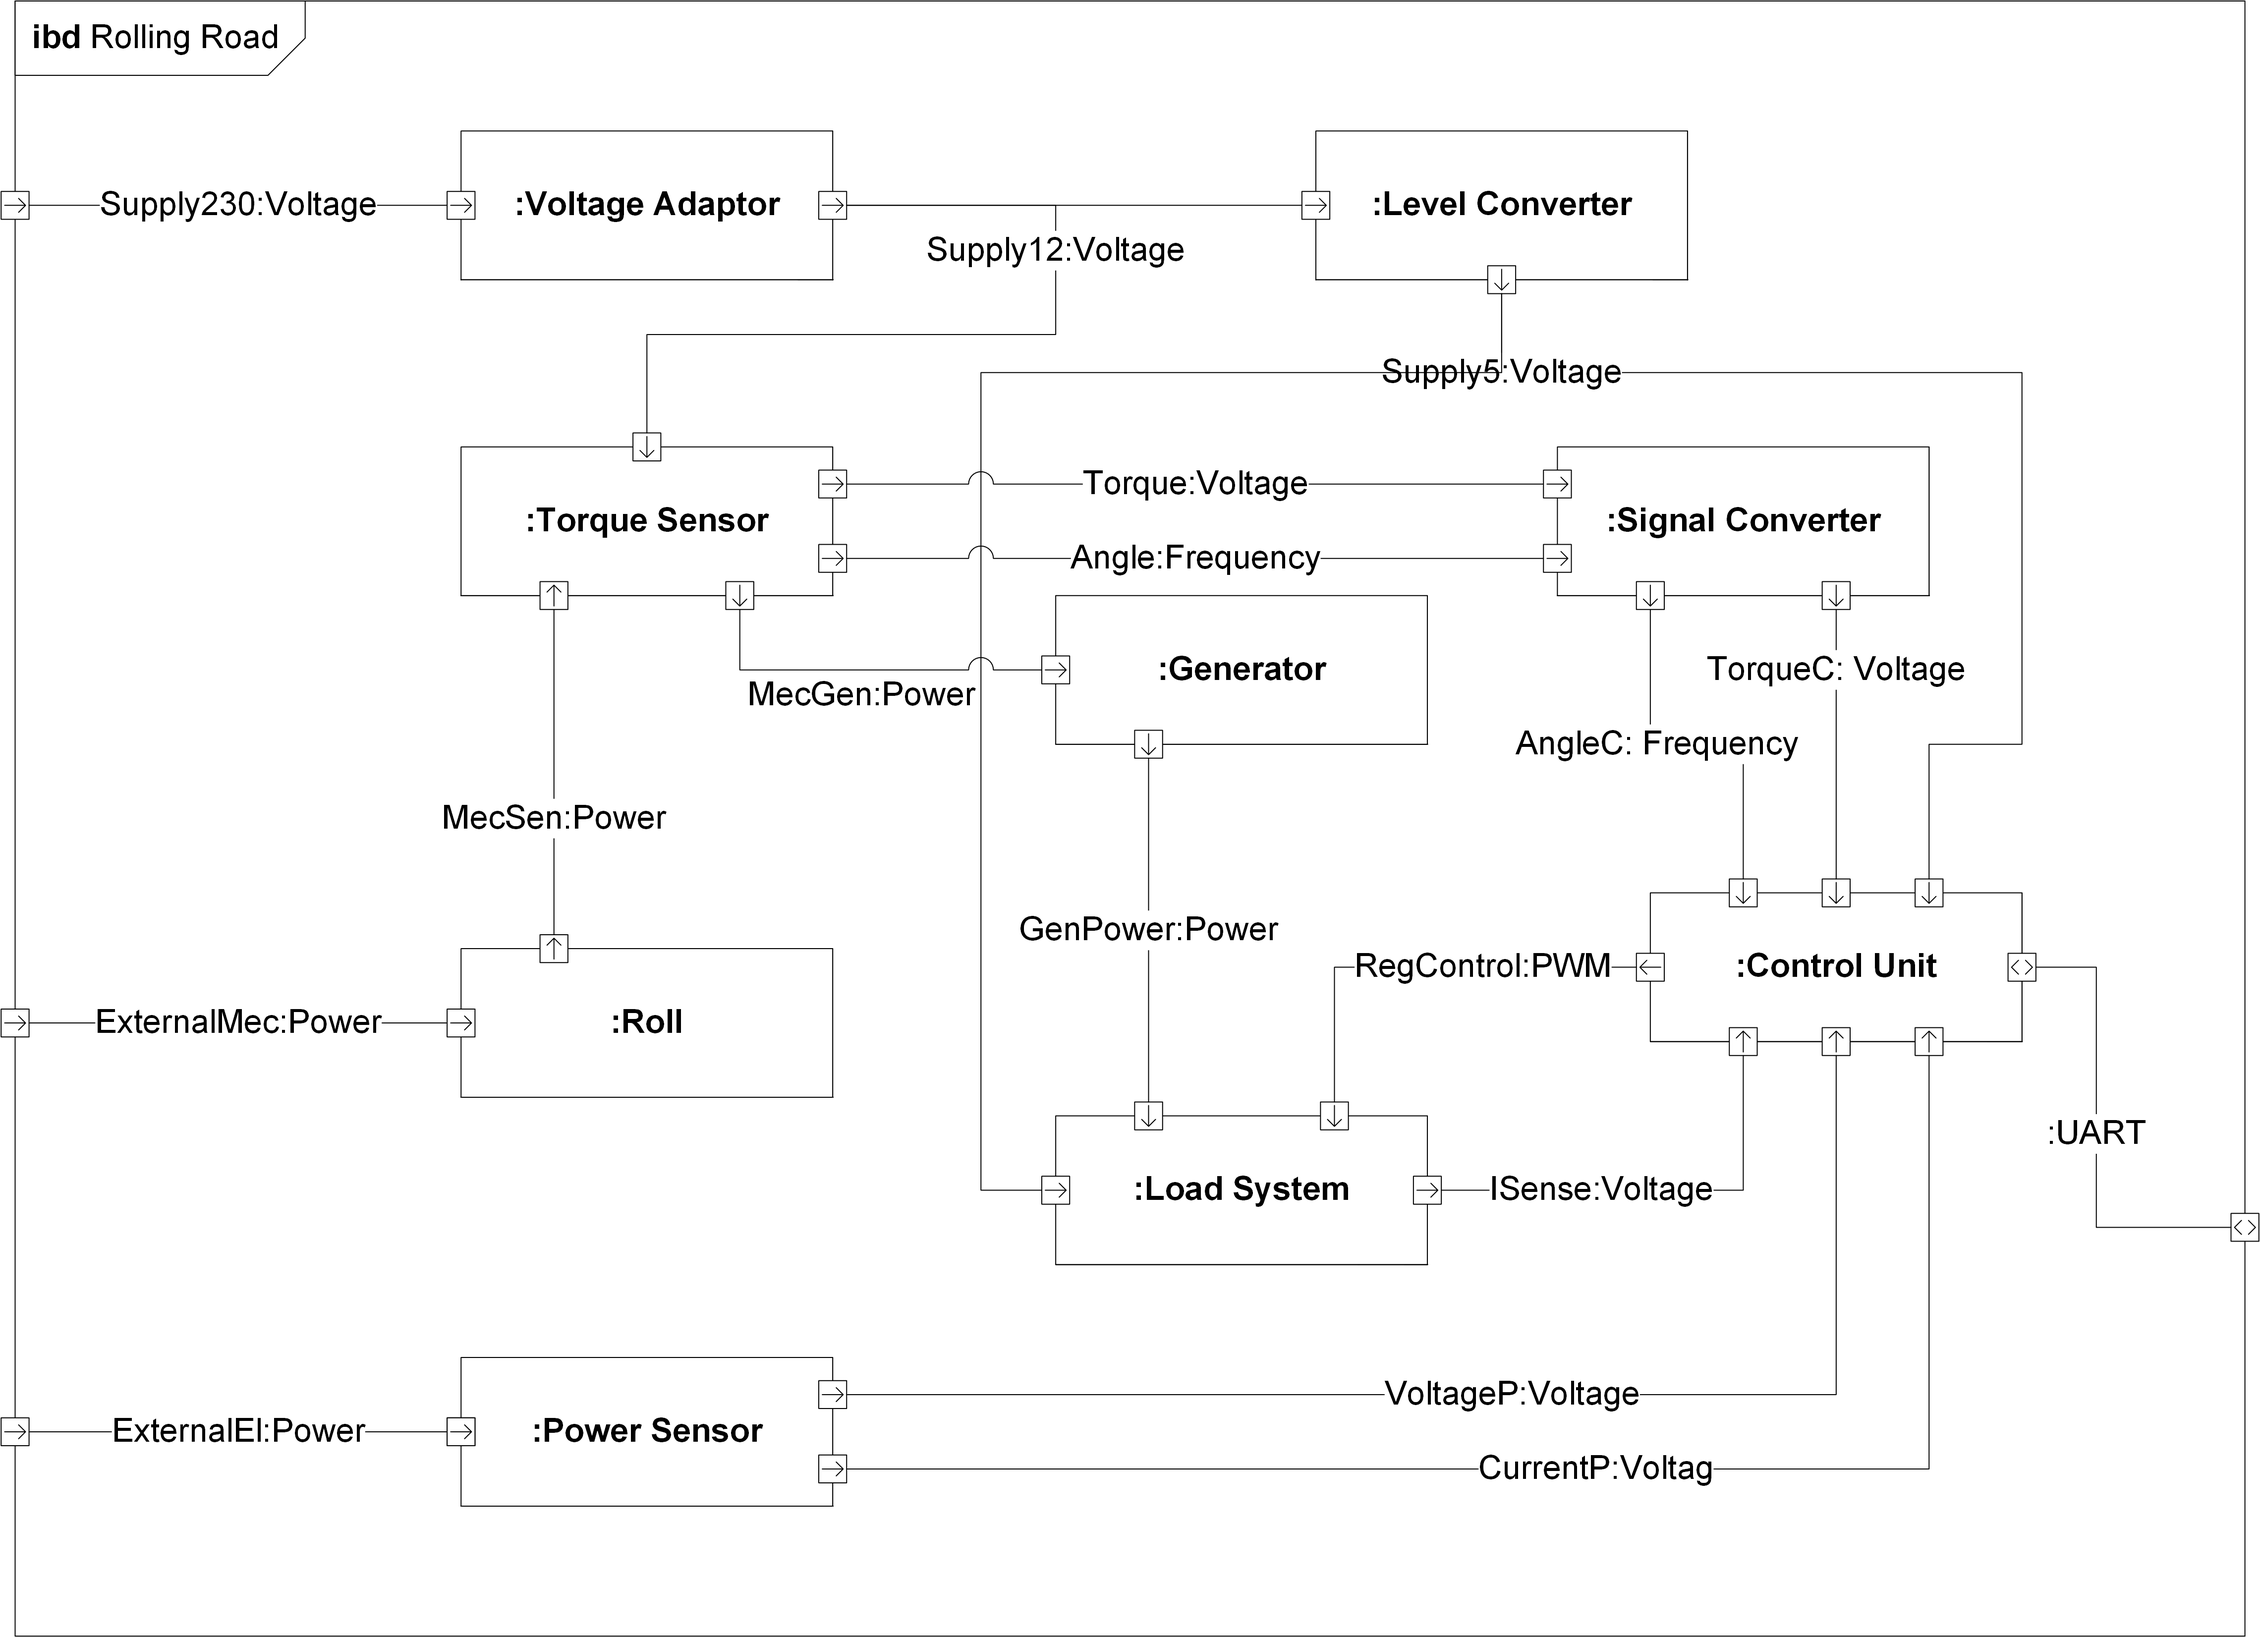
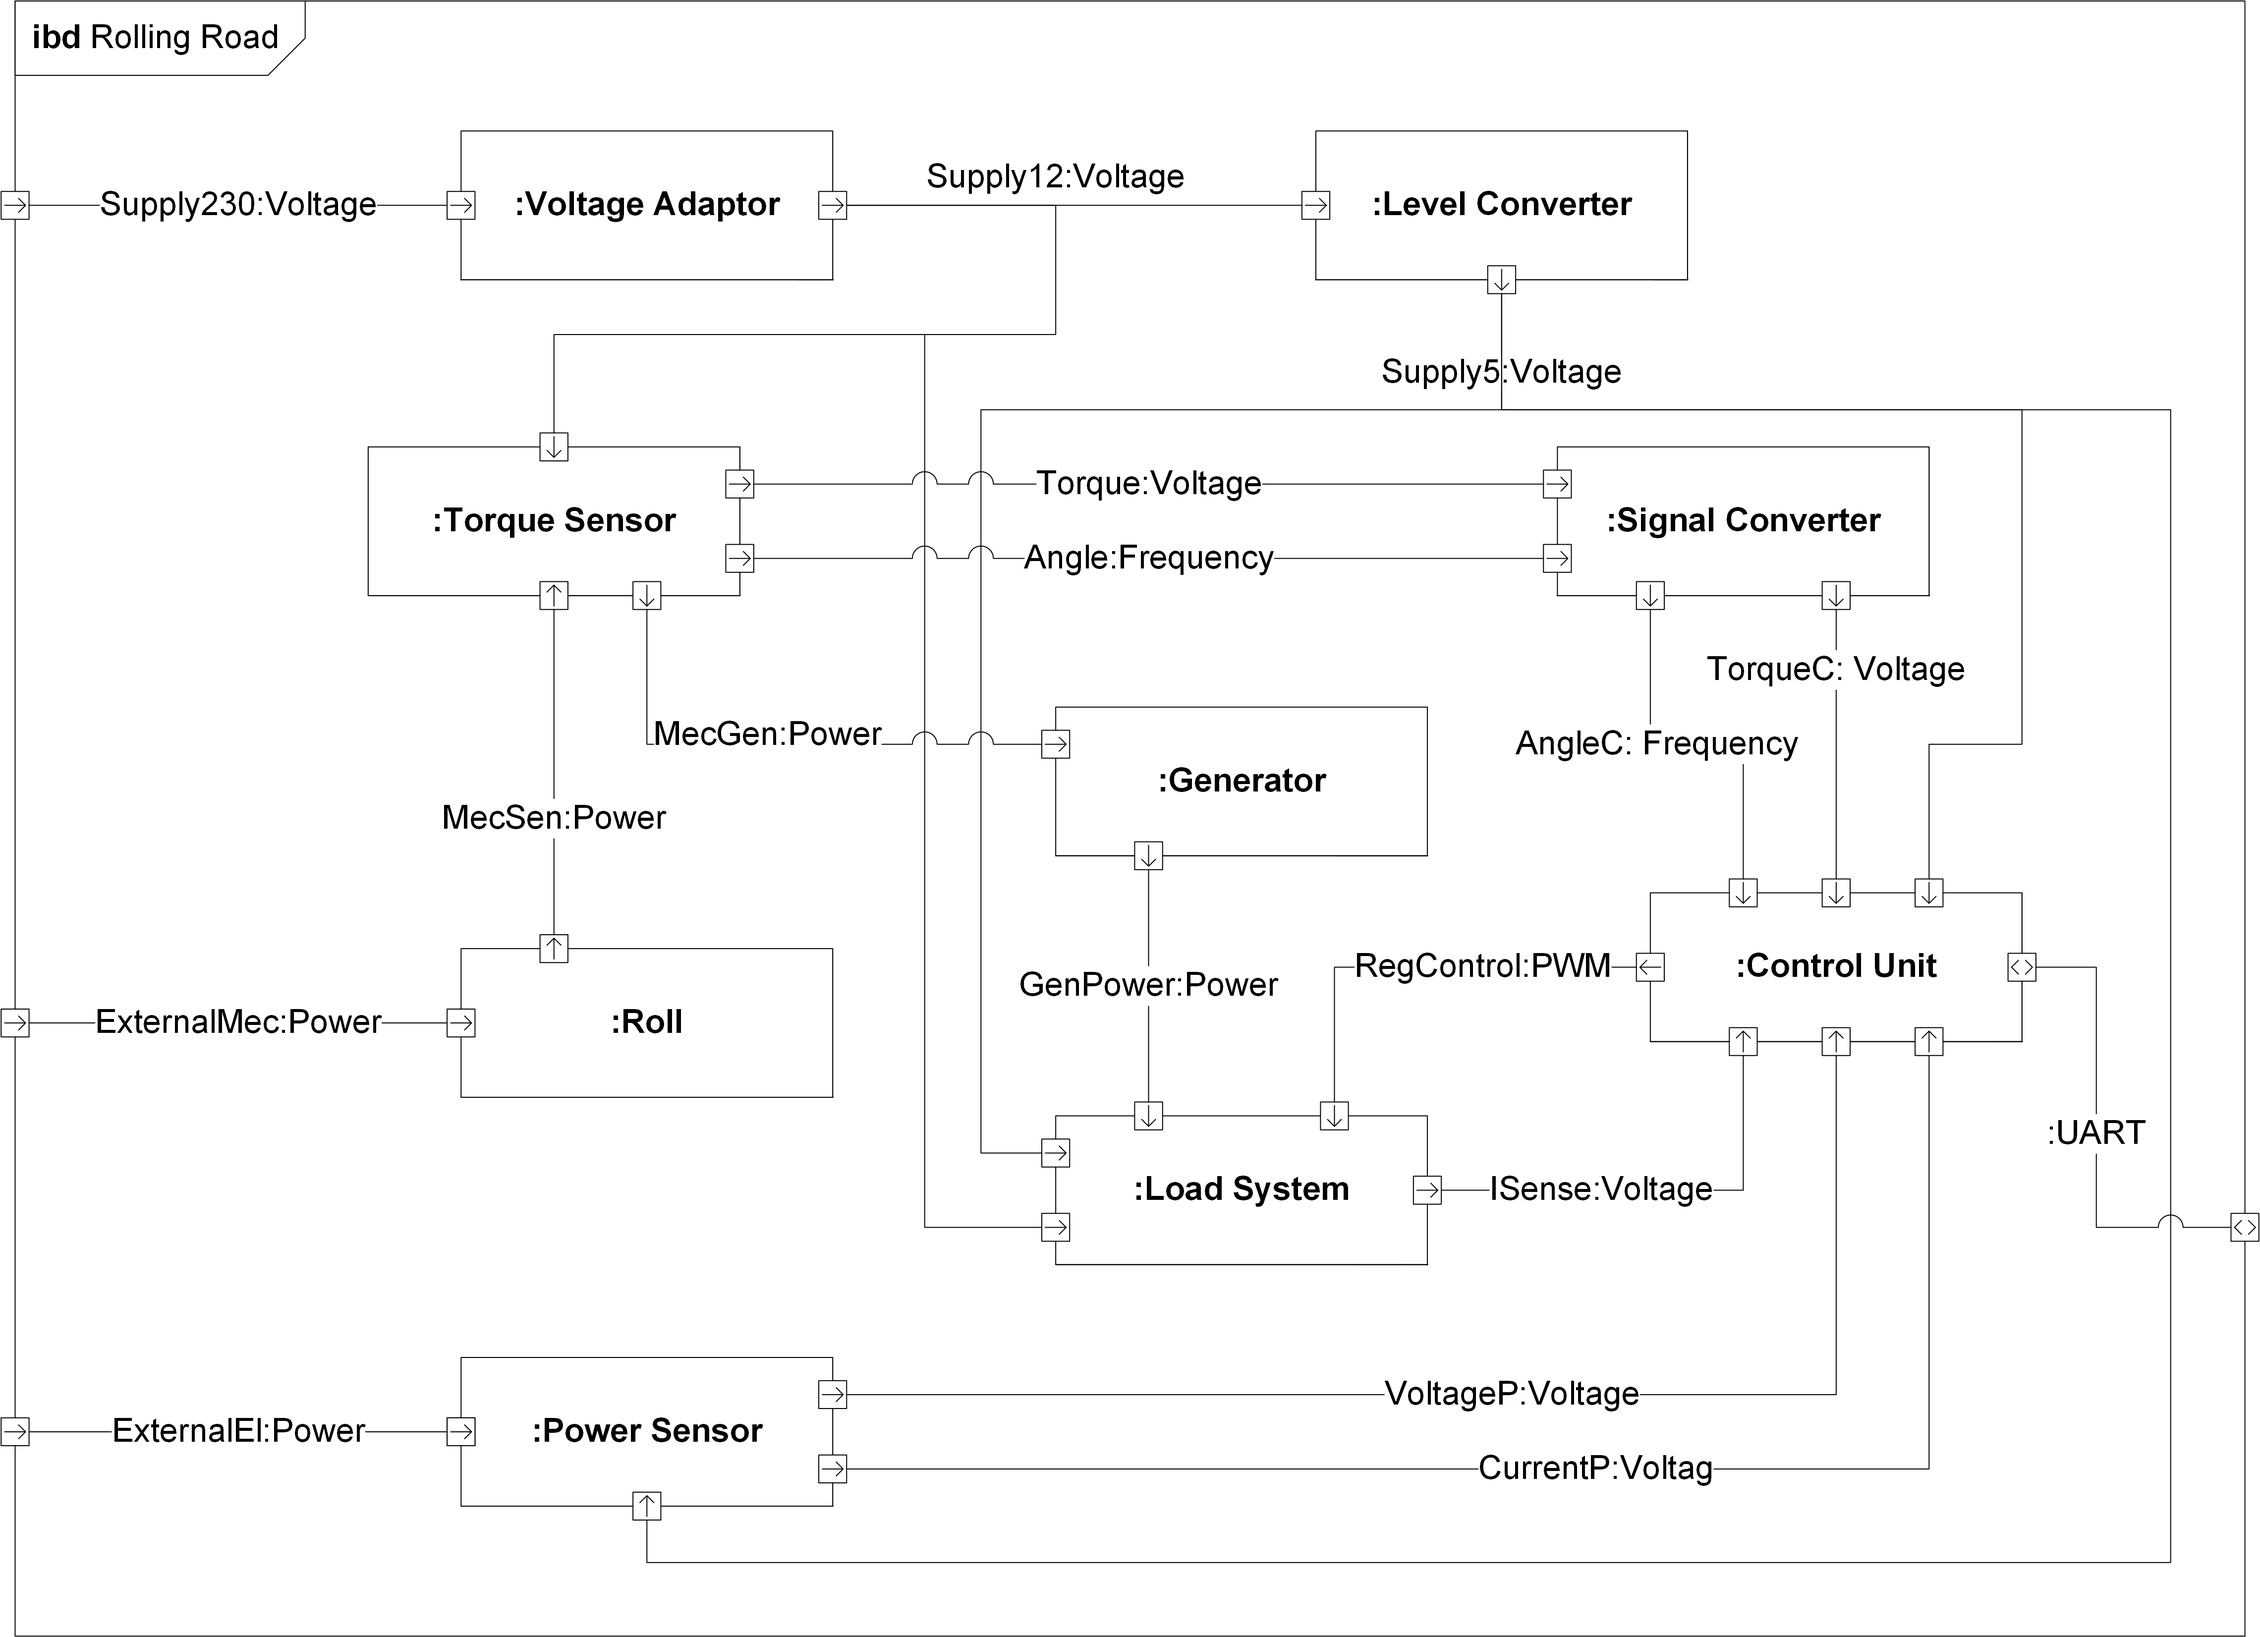
Når man giver en lillefinger, så tager de hele æ pys

diff --git a/Latex/Documentation_RR/Architecture/SignalDescription_RR.tex b/Latex/Documentation_RR/Architecture/SignalDescription_RR.tex
@@ -4,22 +4,32 @@ The signals and protocols used to communicate between the blocks in Rolling Road
 \fxnote{Vil ikke mene det er nødvendigt med en direction på hver (Eller hvis det skal være der, burde det bare være IN, OUT osv.) - JH}
 
 \fxnote{Alle signaler skal vel have spænding eller lign. info (Det virker lidt tilfældigt om de har eller ej) - JH}
+	Voltage: \SI{}{\volt} to \SI{}{\volt}\\
+	Current: \SI{}{\ampere} to \SI{}{\milli \ampere}\\
+	Frequency: 
+
 
 \textbf{Block :Rolling Road}\\
 Block interface description:
 \begin{itemize}
 	\item \textbf{Supply230:Voltage}\\
 	Direction: [External] $\rightarrow$ [Voltage Adaptor]\\
-	Description: Voltage from the 230 VAC electrical mains.
+	Description: Extern power supply to the system from the electrical mains.\\
+	Voltage: \SI{230}{\volt}\\
+	Current: \SI{0}{\ampere} to \SI{5}{\ampere}\\
+	Frequency: DC
 	\item \textbf{ExternalMec:Power}\\
 	Direction: [External] $\rightarrow$ [Roll]\\
 	Description: Mechanical power from the vehicle's wheel.
 	\item \textbf{ExternalEl:Power}\\
 	Direction: [External] $\rightarrow$ [Power Sensor]\\
-	Description: Electrical power from the vehicle's battery.
+	Description: Electrical power delivered to the subject's motor. The power can be supplied by a battery or an external power source.\\
+	Voltage: \SI{0}{\volt} to \SI{50}{\volt}\\
+	Current: \SI{0}{\ampere} to \SI{4}{\ampere}\\
+	Frequency: DC
 	\item \textbf{UART}\\
-	Direction: [Control Unit] $\rightarrow$ [External]\\
-	Description: A signal which transmits data to the computer using the UART-protocol.
+	Direction: [Control Unit] $\leftrightarrow$ [External]\\
+	Description: A signal which transmits measured data from the Control Unit to the Computer and controls the Control Unit from the Computer. This is done using the UART-protocol.
 \end{itemize}
 	
 \textbf{Block :Voltage Adaptor}\\
@@ -27,20 +37,29 @@ Block interface description:
 \begin{itemize}
 	\item \textbf{Supply230:Voltage}\\
 	Direction: [External] $\rightarrow$ [Voltage Adaptor]\\
-	Description: Voltage from the 230 VAC electrical mains.
+	Description: Extern power supply to the system from the electrical mains.\\
+	Voltage: \SI{230}{\volt}\\
+	Current: \SI{0}{\ampere} to \SI{5}{\ampere}\\
+	Frequency: DC
 	\item \textbf{Supply12:Voltage}\\
-	Direction: [Voltage Adaptor] $\rightarrow$ [Level Converter] \& [Torque Sensor]\\
-	Description: Converted supply voltage of 12 VDC.
+	Direction: [Voltage Adaptor] $\rightarrow$ [Level Converter] \& [Torque Sensor] \& [Load System]\\
+	Description: Converted power supply to components in the system.\\
+	Voltage: \SI{0}{\volt} to \SI{12}{\volt}\\
+	Current: \SI{0}{\ampere} to \SI{5}{\ampere}\\
+	Frequency: DC
 \end{itemize}
 		
 \textbf{Block :Level Converter}\\
 Block interface description:
 \begin{itemize}
 	\item \textbf{Supply12:Voltage}\\
-	Direction: [Voltage Adaptor] $\rightarrow$ [Level Converter]\\
-	Description: Converted supply voltage of 12 VDC.
+	Direction: [Voltage Adaptor] $\rightarrow$ [Level Converter] \& [Torque Sensor] \& [Load System]\\
+	Description: Converted power supply to components in the system.\\
+	Voltage: \SI{0}{\volt} to \SI{12}{\volt}\\
+	Current: \SI{0}{\ampere} to \SI{5}{\ampere}\\
+	Frequency: DC
 	\item \textbf{Supply5:Voltage}\\
-	Direction: [Level Converter] $\rightarrow$ [Load System] \& [Control Unit]\\
+	Direction: [Level Converter] $\rightarrow$ [Load System] \& [Control Unit] \& [Power Sensor]\\
 	Description: Converted supply voltage of 5 VDC.
 \end{itemize}
 			

diff --git a/Latex/Documentation_RR/Introduction/Introduction_RR.tex b/Latex/Documentation_RR/Introduction/Introduction_RR.tex
@@ -53,6 +53,6 @@ The following list explains the various terms which has been used to refer to ce
 	Refers the plate where the passive parts of the Load System (power resistors and super capacitor) are placed. These components are placed externaly due to their size and the generated heat.
 	\item \textbf{Subject}\\
 	Can be either AU2 or simply a stand-alone test-motor.
-	\item \textbf{Previous Dynamometer}\\
+	\item \textbf{Previous Dynamometer / System}\\
 	Refers to the previous system which was discussed in the Preface. This system was dubbed 'Teststand til Børsteløs DC-Motor' and was developed by Seyyid Öztoprak and Simon L. Madsen.
 \end{itemize}

diff --git a/Latex/Documentation_RR/FrontPage/FrontPage_RR.tex b/Latex/Documentation_RR/FrontPage/FrontPage_RR.tex
@@ -19,7 +19,7 @@
 	\textsc{\large Consultant: Carl Jacobsen}
 	\vspace{0.5 in}
 	
-	\textsc{\large Date: DD/MM/YYYY}\\
+	\textsc{\large Date: 27/05/2016}\\
 	%{\large\textit{\today}} \\[3cm]
 	%\vfill % Fill the rest of the page with whitespace
 	
